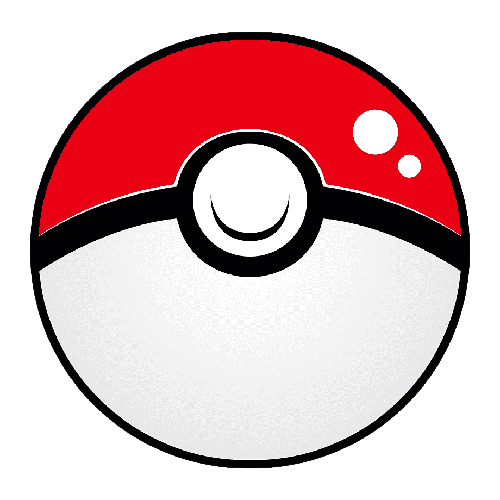
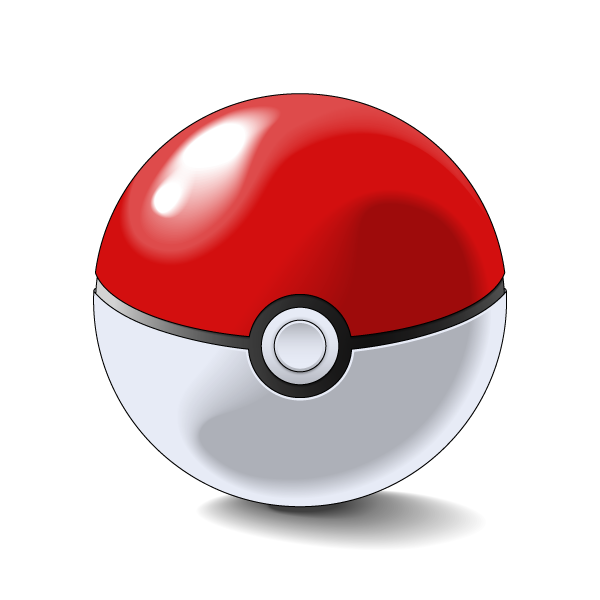
Update pokeball images, readme and license

diff --git a/README.md b/README.md
@@ -1,1 +1,7 @@
-# TPs-SIA
+# Sistemas de Inteligencia Artificial
+
+##Autores
+- [Tomas Alvarez Escalante](https://github.com/tomalvarezz)
+- [Alejo Caeiro](https://github.com/AleCaeiro)
+- [Lucas Agustin Ferreiro](https://github.com/lukyferreiro)
+- [Roman Gomez Kiss](https://github.com/rgomezkiss)

diff --git a/TP0/README.md b/TP0/README.md
@@ -22,7 +22,7 @@ Parado en la carpeta del tp0 ejecutar
 pipenv install
 ```
 
-para instalar las dependencias necesarias en el ambiente virtual
+para instalar las dependencias necesarias en el ambiente virtual.
 
 ## Ejecución
 
